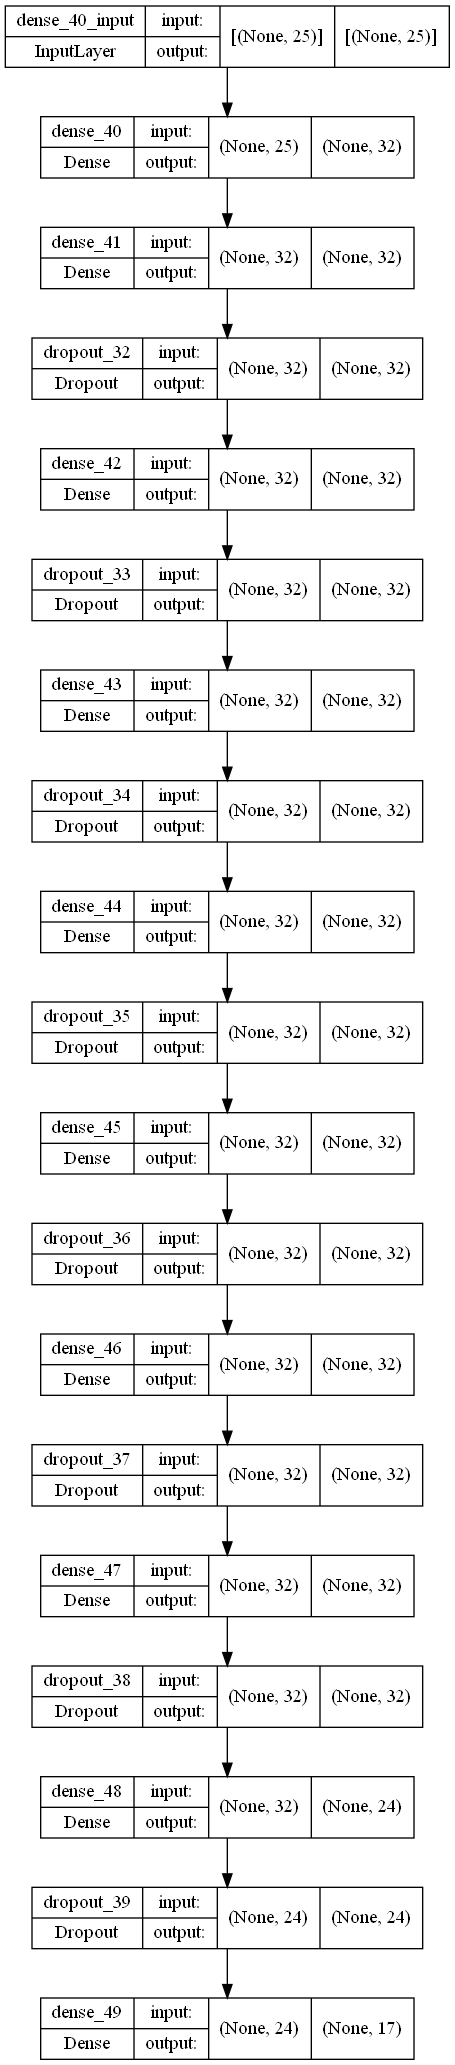
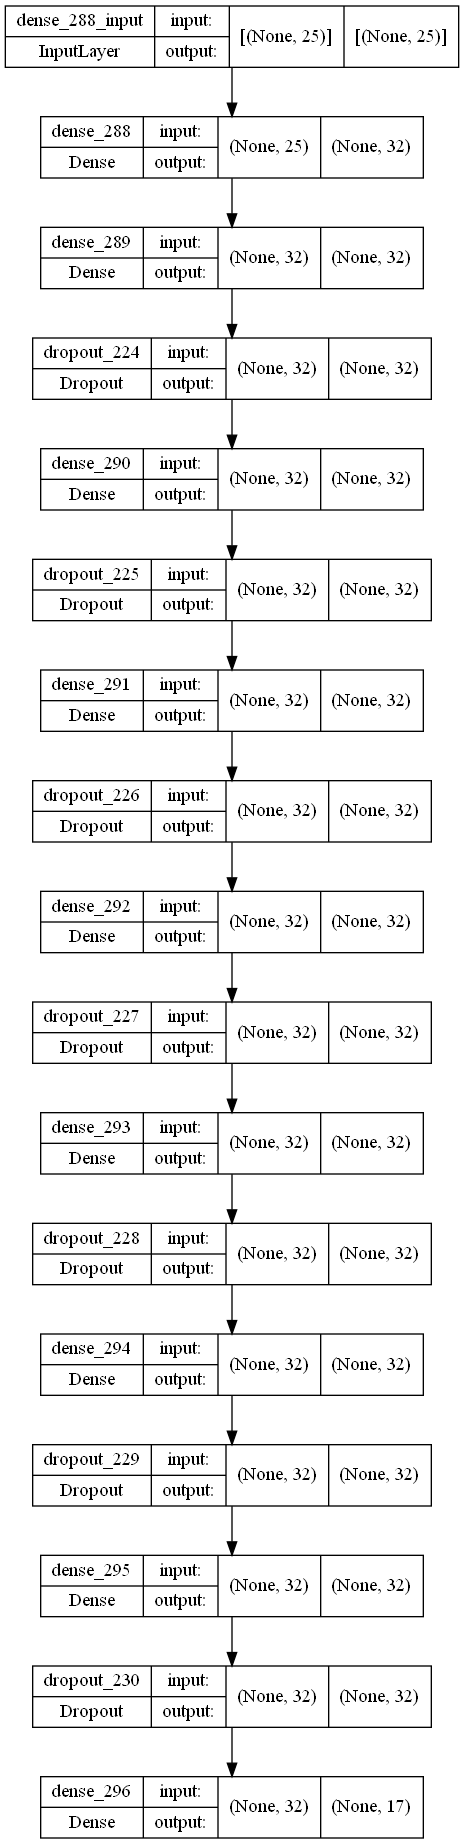
Update parameters, start parallel filter, add noise method for images

Changed region(s): [[0.0, 0.0, 1.0, 1.0]]

diff --git a/main.py b/main.py
@@ -6,11 +6,11 @@ import pandas as pd
 
 from ActivationFunctions import BipolarSigmoid, ReluFunction, BipolarFunction, IdentityFunction, BinarySigmoid, \
     BinaryFunction
-from ImageFilter import ImageFilter, Convolution, Flatten, Mapping, PCAFeatureExtraction, LetterSizeFeatureExtraction
+from ImageFilter import ImageFilter, Convolution, Flatten, Mapping, PCAFeatureExtraction, LetterSizeFeatureExtraction, \
+    ParallelFilters
 from MLPNeuralNetwork import MLPNeuralNetwork
-from SKLearnMLP import classify_by_sklearn_mlp
 from Utilities import HiddenLayersStructure, LearningMode, make_gaussian
-from LoadData import load_data, add_noise
+from LoadData import load_data, add_noise, add_noise_to_images
 from LoadImages import read_image_data_text
 
 from DrawDiagram import draw_plot
@@ -66,11 +66,10 @@ def mlp_for_project_3(learning_rate=-1, hidden_layer_neurons: [] = [8, 8], epoch
     convolution_filter = make_gaussian(-1, 1, conv_size)
     convolution_filter2 = np.array([[1, 0, 1], [1, 0, 1], [1, 0, 1]])
     # convolution_filter = np.ones((conv_size, conv_size))
-    filters = ImageFilter(5, 0, filter_functions=[
+    filters = ImageFilter(filter_functions=[
                                                     # LetterSizeFeatureExtraction(),
-                                                  Convolution(convolution_filter, 0, conv_size)
                                                   # , Mapping([1, 0])
-                                                  # , Convolution(convolution_filter2, 0, conv_size)
+                                                  Convolution(convolution_filter2, 0, conv_size)
                                                   , Flatten()
                                                   # , PCAFeatureExtraction(n_component=8)
                                                   , Mapping([-1, 1])
@@ -92,34 +91,40 @@ def mlp_for_project_3(learning_rate=-1, hidden_layer_neurons: [] = [8, 8], epoch
     print('\n accuracy= ', accuracy, '\n')
 
 
-def mlp_for_project_3_with_keras(learning_rate=-1, hidden_layer_neurons: [] = [8, 8], epochs: int = 10,
-                                 noise_step: float = 0.2):
+def mlp_for_project_3_with_keras(epochs: int = 10, noise_step: float = 0.2):
     train_input, train_output, test_input, test_output = read_image_data_text('farsi7.txt', 95, 95, image_size=40)
-
     conv_size = 10
     convolution_filter = make_gaussian(-1, 1, conv_size)
-    convolution_filter2 = np.array([[1, 0, 1], [1, 0, 1], [1, 0, 1]])
-    # convolution_filter = np.ones((conv_size, conv_size))
-    filters = ImageFilter(5, 0, filter_functions=[
+    filters = ImageFilter(filter_functions=[
                                                   Convolution(convolution_filter, 0, conv_size)
-                                                  # , Mapping([1, 0])
-                                                  # , Convolution(convolution_filter2, 0, conv_size)
                                                   , Flatten()
-                                                  # , PCAFeatureExtraction(n_component=16)
                                                   , Mapping([-1, 1])
                                                   ])
+
     mean_accuracy = 0
-    for i in range(5):
+    for i in range(3):
         mlp = UseKerasToLearn(train_input, train_output, filters)
         mlp.train(epochs, mode=LearningMode.Incremental)
         accuracy = mlp.evaluate(train_input, train_output)
         mean_accuracy += accuracy
-    mean_accuracy = mean_accuracy / 5
+    mean_accuracy = mean_accuracy / 3
+    print('\n Mean accuracy on train data= ', mean_accuracy, '\n')
 
-    # accuracy = classify_by_sklearn_mlp(train_input, train_output, test_input, test_output, filters)
-    print('\n train accuracy= ', mean_accuracy, '\n')
-    accuracy = mlp.evaluate(test_input, test_output)
-    print('\n test accuracy= ', mean_accuracy, '\n')
+    accuracies = []
+    x_values = np.arange(0, 1, noise_step)
+    for noise in x_values:
+        print('\nNoise =', noise, ' :\n')
+        mean_accuracy = 0
+        noisy_input = add_noise_to_images(train_input, noise)
+        for i in range(3):
+            mlp = UseKerasToLearn(noisy_input, train_output, filters)
+            mlp.train(epochs, mode=LearningMode.Incremental)
+            accuracy = mlp.evaluate(test_input, test_output)
+            mean_accuracy += accuracy
+        mean_accuracy = mean_accuracy / 3
+        accuracies.append(mean_accuracy)
+        print(f'\n Mean accuracy on test data and {noise} noise= {mean_accuracy}\n')
+    draw_plot(x_values, accuracies)
 
 
 # Press the green button in the gutter to run the script.
@@ -127,5 +132,5 @@ if __name__ == '__main__':
     # mlp_for_project_2(use_iris=True, hidden_layer_neurons=8, epochs=50,
     #                   noise_step=0.2, learning_rate=0.2, show_logs=False)
     # mlp_for_project_3(hidden_layer_neurons=[32, 32, 32, 24], epochs=400, noise_step=0.5, show_logs=False)
-    mlp_for_project_3_with_keras(epochs=1000, noise_step=0.5)
+    mlp_for_project_3_with_keras(epochs=1000, noise_step=0.1)
 

diff --git a/ImageFilter.py b/ImageFilter.py
@@ -16,9 +16,7 @@ class FilterFunction(ABC):
 
 class ImageFilter:
 
-    def __init__(self, filter_size: int, stride: int, filter_functions: List[FilterFunction]):
-        self.filter_size = filter_size
-        self.stride = stride
+    def __init__(self, filter_functions: List[FilterFunction]):
         self.filter_functions: List[FilterFunction] = filter_functions
 
     def run(self, data_frame: pd.DataFrame):
@@ -95,6 +93,37 @@ class Convolution(FilterFunction):
         # plt.imshow(target_data)
         # plt.show()
         return target_data
+
+
+# need more work
+class ParallelFilters(FilterFunction):
+    def __init__(self, filters: List[List[FilterFunction]]):
+        self.convolution_filters = filters
+
+    def run(self, data_frame: pd.DataFrame):
+        filtered_dfs = []
+        for i in range(len(self.convolution_filters)):
+            new_df = data_frame
+            for j in range(len(self.convolution_filters[i])):
+                new_df = self.convolution_filters[i][j].run(new_df)
+            filtered_dfs.append(new_df)
+
+        return self.flatten_data_frames(filtered_dfs)
+
+    def flatten_data_frames(self, filtered_data: pd.DataFrame):
+        size = 0
+        for i in range(len(filtered_data[0])):
+            size += np.array(filtered_data[0][i]).flatten().shape[0]
+
+        data_array = np.zeros((len(filtered_data), size))
+        for i in range(data_array.shape[0]):
+            flatten_data = np.ndarray((0,))
+            for j in range(len(filtered_data[0])):
+                np.concatenate(flatten_data, np.array(filtered_data[i][j]).flatten())
+            data_array[i] = flatten_data
+        return data_array
+
+
 
 
 class Flatten(FilterFunction):

diff --git a/LoadData.py b/LoadData.py
@@ -40,17 +40,32 @@ def one_hot(input_df):
         # input_df.loc[input_df == output_set[i]] = i
     return output_df
 
+
 def add_noise(data, noise: float):
     noisy_inputs = data.copy()
     changes = 0
-    print(noisy_inputs)
     for i in range(noisy_inputs.shape[0]):
         for j in range(noisy_inputs.shape[1]):
             if random.random() < noise / 2.0:
-                print('i:', i)
-                print('j:', j)
-                print('noisy_inputs:', noisy_inputs.shape)
                 noisy_inputs.iloc[i, j] *= -1
                 changes += 1
+    print('changes by noise: ', changes)
+    return noisy_inputs
+
+
+def add_noise_to_images(data, noise: float):
+    noisy_inputs = data.copy()
+    if noise == 0:
+        return noisy_inputs
+    changes = 0
+    for i in range(noisy_inputs.shape[0]):
+        img = noisy_inputs[i]
+        for j in range(img.shape[0]):
+            for k in range(img.shape[1]):
+                pixel = img[j][k]
+                if pixel < 0.8:
+                    if random.random() < noise / 2.0:
+                        img[j][k] *= -1
+                        changes += 1
     print('changes by noise: ', changes)
     return noisy_inputs

diff --git a/KerasMLP.py b/KerasMLP.py
@@ -33,7 +33,7 @@ class UseKerasToLearn:
         for i in range(7):
             self.model.add(Dense(32, activation=tf.keras.activations.tanh))
             self.model.add(Dropout(0.2))
-        for i in range(1):
+        for i in range(0):
             self.model.add(Dense(24, activation=tf.keras.activations.tanh))
             self.model.add(Dropout(0.2))
         self.model.add(Dense(self.train_outputs.shape[1], activation=tf.keras.activations.softmax))
